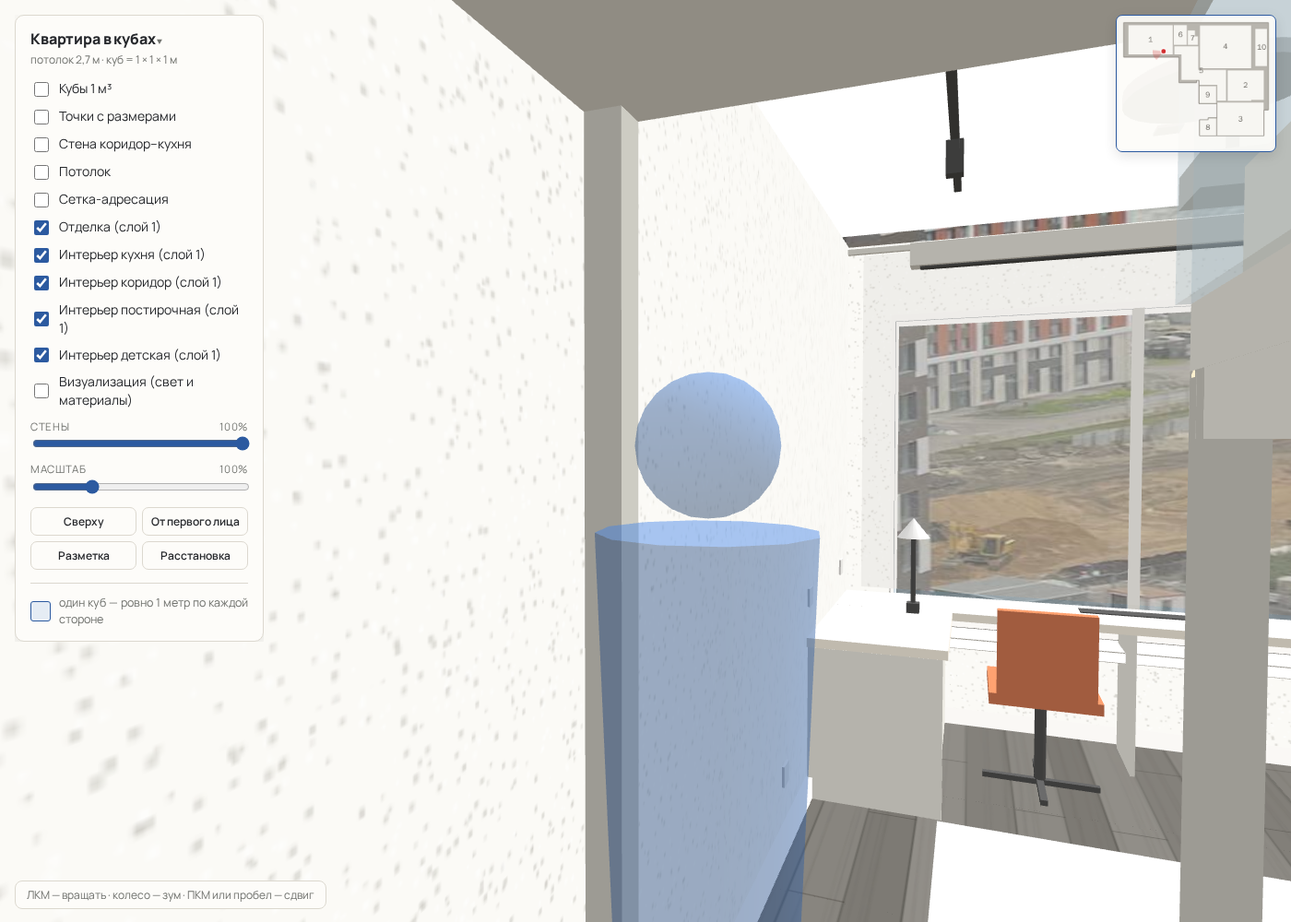
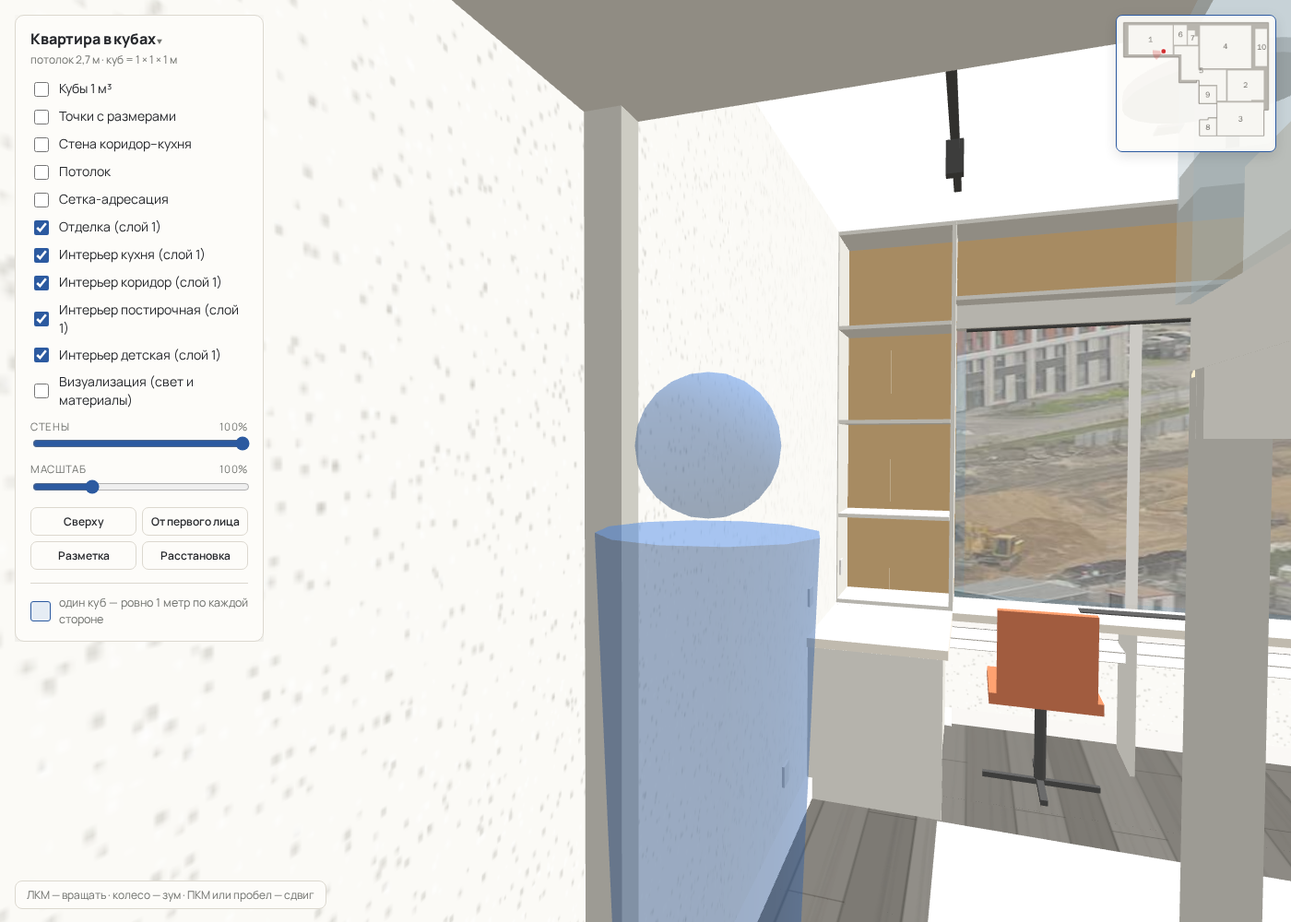
Комната 1: окно 1.80 м между стеллажами, второй узкий стеллаж в юго-западном углу, полка над окном, без настольной лампы

Changed region(s): [[0.645, 0.217, 0.9829, 0.682], [0.9829, 0.558, 1.0, 0.651]]

diff --git a/plan.js b/plan.js
@@ -1,1 +1,1 @@
-const PLAN={"outer":[[0.407,1.616],[0.407,5.146],[6.083,5.146],[6.083,7.754],[7.876,7.754],[7.876,7.536],[8.12,7.536],[8.12,9.899],[9.967,9.899],[9.967,11.352],[9.057,11.352],[9.057,11.556],[8.175,11.556],[8.175,13.185],[14.801,13.185],[14.801,10.537],[15.249,10.537],[15.249,1.616]],"rooms":[{"id":1,"poly":[[0.896,1.874],[0.896,4.864],[5.445,4.864],[5.445,1.874]],"label":[3.169,3.36],"cells":[[0.896,1.874,0.991,0.991,0],[1.887,1.874,1,0.991,1],[2.892,1.874,0.991,0.991,0],[3.884,1.874,1,0.991,1],[4.888,1.874,0.57,0.991,0],[0.896,2.865,0.991,1,1],[1.887,2.865,1,1,0],[2.892,2.865,0.991,1,1],[3.884,2.865,1,1,0],[4.888,2.865,0.57,1,1],[0.896,3.87,0.991,0.994,0],[1.887,3.87,1,0.994,1],[2.892,3.87,0.991,0.994,0],[3.884,3.87,1,0.994,1],[4.888,3.87,0.57,0.994,0]],"area":13.6},{"id":2,"poly":[[11.067,6.518],[11.067,9.614],[13.477,9.614],[13.477,9.519],[14.774,9.519],[14.774,6.518]],"label":[12.909,8.057],"cells":[[11.067,6.518,0.991,1.005,0],[12.058,6.518,1,1.005,1],[13.063,6.518,0.991,1.005,0],[14.054,6.518,0.733,1.005,1],[11.067,7.523,0.991,1,1],[12.058,7.523,1,1,0],[13.063,7.523,0.991,1,1],[14.054,7.523,0.733,1,0],[11.067,8.528,0.991,0.991,0],[12.058,8.528,1,0.991,1],[13.063,8.528,0.991,0.991,0],[14.054,8.528,0.733,0.991,1],[11.067,9.519,0.991,0.095,1],[12.058,9.519,1,0.095,0],[13.058,9.519,0.419,0.095,1]],"area":11.3},{"id":3,"poly":[[10.021,13.144],[14.76,13.144],[14.76,9.777],[10.021,9.777]],"label":[12.39,11.46],"cells":[[10.021,9.777,1.0,1.0,0],[11.021,9.777,1.0,1.0,1],[12.021,9.777,1.0,1.0,0],[13.021,9.777,1.0,1.0,1],[14.021,9.777,0.739,1.0,0],[10.021,10.777,1.0,1.0,1],[11.021,10.777,1.0,1.0,0],[12.021,10.777,1.0,1.0,1],[13.021,10.777,1.0,1.0,0],[14.021,10.777,0.739,1.0,1],[10.021,11.777,1.0,1.0,0],[11.021,11.777,1.0,1.0,1],[12.021,11.777,1.0,1.0,0],[13.021,11.777,1.0,1.0,1],[14.021,11.777,0.739,1.0,0],[10.021,12.777,1.0,0.367,1],[11.021,12.777,1.0,0.367,0],[12.021,12.777,1.0,0.367,1],[13.021,12.777,1.0,0.367,0],[14.021,12.777,0.739,0.367,1]],"area":16.0},{"id":4,"poly":[[8.23,1.915],[8.23,6.287],[13.47,6.287],[13.47,1.915]],"label":[10.841,4.1],"cells":[[8.23,1.915,0.976,0.991,0],[9.207,1.915,1,0.991,1],[10.211,1.915,0.991,0.991,0],[11.203,1.915,1,0.991,1],[12.208,1.915,1,0.991,0],[13.212,1.915,0.272,0.991,1],[8.23,2.906,0.976,1,1],[9.207,2.906,1,1,0],[10.211,2.906,0.991,1,1],[11.203,2.906,1,1,0],[12.208,2.906,1,1,1],[13.212,2.906,0.272,1,0],[8.23,3.911,0.976,0.991,0],[9.207,3.911,1,0.991,1],[10.211,3.911,0.991,0.991,0],[11.203,3.911,1,0.991,1],[12.208,3.911,1,0.991,0],[13.212,3.911,0.272,0.991,1],[8.23,4.902,0.976,1,1],[9.207,4.902,1,1,0],[10.211,4.902,0.991,1,1],[11.203,4.902,1,1,0],[12.208,4.902,1,1,1],[13.212,4.902,0.272,1,0],[8.23,5.907,0.976,0.394,0],[9.207,5.907,1,0.394,1],[10.211,5.907,0.991,0.394,0],[11.203,5.907,1,0.394,1],[12.208,5.907,1,0.394,0],[13.212,5.907,0.272,0.394,1]],"area":22.9},{"id":5,"poly":[[5.608,4.033],[5.608,4.861],[6.336,4.861],[6.336,7.468],[8.161,7.468],[8.161,7.984],[10.008,7.984],[10.008,9.6],[10.904,9.6],[10.904,6.464],[8.066,6.464],[8.066,4.033]],"label":[8.344,6.563],"cells":[[5.608,4.033,0.991,0.991,0],[6.599,4.033,1,0.991,1],[7.604,4.033,0.435,0.991,0],[6.336,5.024,0.264,1,1],[6.599,5.024,1,1,0],[7.604,5.024,0.448,1,1],[6.336,6.029,0.264,0.991,0],[6.599,6.029,1,0.991,1],[7.604,6.029,0.991,0.991,0],[8.596,6.45,1,0.57,1],[9.6,6.464,1,0.557,0],[10.605,6.464,0.299,0.557,1],[6.336,7.02,0.264,0.462,1],[6.599,7.02,1,0.462,0],[7.604,7.02,0.991,0.978,1],[8.596,7.02,1,0.978,0],[9.6,7.02,1,1,1],[10.605,7.02,0.299,1,0],[10.035,8.025,0.57,1,0],[10.605,8.025,0.299,1,1],[10.035,9.03,0.57,0.584,1],[10.605,9.03,0.299,0.584,0]],"area":12.3},{"id":6,"poly":[[5.565,1.874],[5.565,3.894],[6.885,3.894],[6.885,1.874]],"label":[6.238,2.862],"cells":[[5.565,1.874,1.021,0.991,0],[6.586,1.874,0.312,0.991,1],[5.565,2.865,1.021,1.029,1],[6.586,2.865,0.312,1.029,0]],"area":2.7},{"id":7,"poly":[[6.995,2.417],[6.995,3.894],[8.025,3.894],[8.025,3.028],[7.713,3.028],[7.713,2.417]],"label":[7.471,3.211],"cells":[[6.995,2.417,1.03,0.991,0],[6.995,3.408,1.03,0.486,1]],"area":1.3},{"id":8,"poly":[[9.872,11.384],[9.098,11.384],[9.098,11.588],[8.192,11.588],[8.192,13.144],[9.872,13.144]],"label":[9.058,12.332],"cells":[[8.192,11.384,1.014,1.013,0],[9.207,11.384,0.679,1.013,1],[8.192,12.398,1.014,0.76,1],[9.207,12.398,0.679,0.747,0]],"area":2.8},{"id":9,"poly":[[8.172,8.122],[8.172,9.872],[9.872,9.872],[9.872,8.122]],"label":[9.034,9.023],"cells":[[8.172,8.122,1.021,1.03,0],[9.193,8.122,0.693,1.03,1],[8.172,9.152,1.021,0.733,1],[9.193,9.152,0.693,0.733,0]],"area":3.0},{"id":10,"poly":[[13.91,2.268],[13.91,6.043],[15.1,6.043],[15.1,2.268]],"label":[14.542,4.158],"cells":[[13.91,2.254,1.054,0.991,0],[14.964,2.268,0.163,0.978,1],[13.91,3.245,1.054,1,1],[14.964,3.245,0.163,1,0],[13.91,4.25,1.054,0.991,0],[14.964,4.25,0.163,0.991,1],[13.91,5.242,1.054,0.815,1],[14.964,5.242,0.149,0.815,0]],"area":4.5}],"slabs":[{"y0":0.0,"y1":0.55,"polys":[{"s":[[6.083,7.754],[6.725,7.754],[6.725,7.468],[6.336,7.468],[6.336,4.861],[5.1,4.86],[5.1,4.864],[0.896,4.864],[0.896,1.874],[5.445,1.874],[5.445,3.98],[5.94,3.98],[5.94,4.033],[6.1,4.033],[6.1,3.894],[5.565,3.894],[5.565,1.874],[6.885,1.874],[6.885,3.52],[6.9,3.52],[6.9,4.033],[7.1,4.033],[7.1,3.894],[6.995,3.894],[6.995,2.417],[7.713,2.417],[7.713,3.028],[8.025,3.028],[8.025,3.894],[7.9,3.894],[7.9,4.033],[8.066,4.033],[8.066,5.516],[8.23,5.516],[8.23,1.915],[13.47,1.915],[13.47,2.8],[13.91,2.8],[13.91,2.268],[15.1,2.268],[15.1,2.4],[15.249,2.4],[15.249,1.616],[0.407,1.616],[0.407,5.146],[6.083,5.146]],"h":[]},{"s":[[8.12,7.536],[8.12,9.899],[9.967,9.899],[9.967,11.352],[9.057,11.352],[9.057,11.556],[8.175,11.556],[8.175,13.185],[14.801,13.185],[14.801,10.537],[15.249,10.537],[15.249,5.9],[15.1,5.9],[15.1,6.043],[13.91,6.043],[13.91,4.6],[13.47,4.6],[13.47,6.287],[10.96,6.287],[10.96,6.62],[10.904,6.62],[10.904,6.75],[11.067,6.75],[11.067,6.518],[14.774,6.518],[14.774,9.519],[13.477,9.519],[13.477,9.614],[11.067,9.614],[11.067,7.65],[10.904,7.65],[10.904,9.27],[10.95,9.27],[10.95,9.777],[14.76,9.777],[14.76,13.144],[10.021,13.144],[10.021,13.0],[9.872,13.0],[9.872,13.144],[8.192,13.144],[8.192,11.588],[9.098,11.588],[9.098,11.384],[9.872,11.384],[9.872,12.2],[10.021,12.2],[10.021,9.777],[10.05,9.777],[10.05,9.6],[10.008,9.6],[10.008,9.35],[9.872,9.35],[9.872,9.872],[8.172,9.872],[8.172,8.122],[9.872,8.122],[9.872,8.55],[10.008,8.55],[10.008,7.984],[8.161,7.984],[8.161,7.468],[7.975,7.468],[7.975,7.536]],"h":[]}]},{"y0":0.55,"y1":0.9,"polys":[{"s":[[6.083,7.754],[6.725,7.754],[6.725,7.468],[6.336,7.468],[6.336,4.861],[5.1,4.86],[5.1,4.864],[0.896,4.864],[0.896,4.61],[0.407,4.61],[0.407,5.146],[6.083,5.146]],"h":[]},{"s":[[8.12,7.536],[8.12,9.899],[9.967,9.899],[9.967,11.352],[9.057,11.352],[9.057,11.556],[8.175,11.556],[8.175,13.185],[14.801,13.185],[14.801,12.55],[14.76,12.55],[14.76,13.144],[10.021,13.144],[10.021,13.0],[9.872,13.0],[9.872,13.144],[8.192,13.144],[8.192,11.588],[9.098,11.588],[9.098,11.384],[9.872,11.384],[9.872,12.2],[10.021,12.2],[10.021,9.777],[10.05,9.777],[10.05,9.6],[10.008,9.6],[10.008,9.35],[9.872,9.35],[9.872,9.872],[8.172,9.872],[8.172,8.122],[9.872,8.122],[9.872,8.55],[10.008,8.55],[10.008,7.984],[8.161,7.984],[8.161,7.468],[7.975,7.468],[7.975,7.536]],"h":[]},{"s":[[15.249,8.8],[14.774,8.8],[14.774,9.519],[13.477,9.519],[13.477,9.614],[11.067,9.614],[11.067,7.65],[10.904,7.65],[10.904,9.27],[10.95,9.27],[10.95,9.777],[14.76,9.777],[14.76,10.35],[15.249,10.35]],"h":[]},{"s":[[15.249,5.9],[15.1,5.9],[15.1,6.043],[13.91,6.043],[13.91,4.6],[13.47,4.6],[13.47,6.287],[10.96,6.287],[10.96,6.62],[10.904,6.62],[10.904,6.75],[11.067,6.75],[11.067,6.518],[14.774,6.518],[14.774,7.3],[15.249,7.3]],"h":[]},{"s":[[15.249,1.616],[0.407,1.616],[0.407,2.11],[0.896,2.11],[0.896,1.874],[5.445,1.874],[5.445,3.98],[5.94,3.98],[5.94,4.033],[6.1,4.033],[6.1,3.894],[5.565,3.894],[5.565,1.874],[6.885,1.874],[6.885,3.52],[6.9,3.52],[6.9,4.033],[7.1,4.033],[7.1,3.894],[6.995,3.894],[6.995,2.417],[7.713,2.417],[7.713,3.028],[8.025,3.028],[8.025,3.894],[7.9,3.894],[7.9,4.033],[8.066,4.033],[8.066,5.516],[8.23,5.516],[8.23,1.915],[13.47,1.915],[13.47,2.8],[13.91,2.8],[13.91,2.268],[15.1,2.268],[15.1,2.4],[15.249,2.4]],"h":[]}]},{"y0":0.9,"y1":2.1,"polys":[{"s":[[6.083,7.754],[6.725,7.754],[6.725,7.468],[6.336,7.468],[6.336,4.861],[5.1,4.86],[5.1,4.864],[0.896,4.864],[0.896,4.61],[0.407,4.61],[0.407,5.146],[6.083,5.146]],"h":[]},{"s":[[8.12,7.536],[8.12,9.899],[9.967,9.899],[9.967,11.352],[9.057,11.352],[9.057,11.556],[8.175,11.556],[8.175,13.185],[14.801,13.185],[14.801,12.55],[14.76,12.55],[14.76,13.144],[10.021,13.144],[10.021,13.0],[9.872,13.0],[9.872,13.144],[8.192,13.144],[8.192,11.588],[9.098,11.588],[9.098,11.384],[9.872,11.384],[9.872,12.2],[10.021,12.2],[10.021,9.777],[10.05,9.777],[10.05,9.6],[10.008,9.6],[10.008,9.35],[9.872,9.35],[9.872,9.872],[8.172,9.872],[8.172,8.122],[9.872,8.122],[9.872,8.55],[10.008,8.55],[10.008,7.984],[8.161,7.984],[8.161,7.468],[7.975,7.468],[7.975,7.536]],"h":[]},{"s":[[15.249,8.8],[14.774,8.8],[14.774,9.519],[13.477,9.519],[13.477,9.614],[11.067,9.614],[11.067,7.65],[10.904,7.65],[10.904,9.27],[10.95,9.27],[10.95,9.777],[14.76,9.777],[14.76,10.35],[15.249,10.35]],"h":[]},{"s":[[15.249,5.9],[15.1,5.9],[15.1,6.043],[13.91,6.043],[13.91,4.6],[13.47,4.6],[13.47,6.287],[10.96,6.287],[10.96,6.62],[10.904,6.62],[10.904,6.75],[11.067,6.75],[11.067,6.518],[14.774,6.518],[14.774,7.3],[15.249,7.3]],"h":[]},{"s":[[15.249,1.616],[0.407,1.616],[0.407,2.11],[0.896,2.11],[0.896,1.874],[5.445,1.874],[5.445,3.98],[5.94,3.98],[5.94,4.033],[6.1,4.033],[6.1,3.894],[5.565,3.894],[5.565,1.874],[6.885,1.874],[6.885,3.52],[6.9,3.52],[6.9,4.033],[7.1,4.033],[7.1,3.894],[6.995,3.894],[6.995,2.417],[7.713,2.417],[7.713,3.028],[8.025,3.028],[8.025,3.894],[7.9,3.894],[7.9,4.033],[8.066,4.033],[8.066,5.516],[8.23,5.516],[8.23,1.915],[13.47,1.915],[13.47,2.8],[13.91,2.8],[13.91,2.268],[15.1,2.268],[15.1,2.4],[15.249,2.4]],"h":[]}]},{"y0":2.1,"y1":2.3,"polys":[{"s":[[6.083,7.754],[7.876,7.754],[7.876,7.536],[8.12,7.536],[8.12,9.899],[9.967,9.899],[9.967,11.352],[9.057,11.352],[9.057,11.556],[8.175,11.556],[8.175,13.185],[14.801,13.185],[14.801,12.55],[14.76,12.55],[14.76,13.144],[10.021,13.144],[10.021,9.777],[14.76,9.777],[14.76,10.35],[15.249,10.35],[15.249,8.8],[14.774,8.8],[14.774,9.519],[13.477,9.519],[13.477,9.614],[11.067,9.614],[11.067,6.518],[14.774,6.518],[14.774,7.3],[15.249,7.3],[15.249,5.9],[15.1,5.9],[15.1,6.043],[13.91,6.043],[13.91,2.268],[15.1,2.268],[15.1,2.4],[15.249,2.4],[15.249,1.616],[0.407,1.616],[0.407,2.11],[0.896,2.11],[0.896,1.874],[5.445,1.874],[5.445,4.864],[0.896,4.864],[0.896,4.61],[0.407,4.61],[0.407,5.146],[6.083,5.146]],"h":[[[5.565,1.874],[6.885,1.874],[6.885,3.894],[5.565,3.894]],[[6.995,2.417],[7.713,2.417],[7.713,3.028],[8.025,3.028],[8.025,3.894],[6.995,3.894]],[[10.96,6.287],[10.96,6.62],[10.904,6.62],[10.904,9.6],[10.008,9.6],[10.008,7.984],[8.161,7.984],[8.161,7.468],[6.336,7.468],[6.336,4.861],[5.608,4.861],[5.608,4.033],[8.066,4.033],[8.066,5.516],[8.23,5.516],[8.23,1.915],[13.47,1.915],[13.47,6.287]],[[8.172,8.122],[9.872,8.122],[9.872,9.872],[8.172,9.872]],[[9.872,11.384],[9.872,13.144],[8.192,13.144],[8.192,11.588],[9.098,11.588],[9.098,11.384]]]}]},{"y0":2.3,"y1":2.7,"polys":[{"s":[[6.083,5.146],[6.083,7.754],[7.876,7.754],[7.876,7.536],[8.12,7.536],[8.12,9.899],[9.967,9.899],[9.967,11.352],[9.057,11.352],[9.057,11.556],[8.175,11.556],[8.175,13.185],[14.801,13.185],[14.801,10.537],[15.249,10.537],[15.249,1.616],[0.407,1.616],[0.407,5.146]],"h":[[[5.565,3.894],[5.565,1.874],[6.885,1.874],[6.885,3.894]],[[6.995,3.894],[6.995,2.417],[7.713,2.417],[7.713,3.028],[8.025,3.028],[8.025,3.894]],[[0.896,4.864],[0.896,1.874],[5.445,1.874],[5.445,4.864]],[[13.47,6.287],[10.96,6.287],[10.96,6.62],[10.904,6.62],[10.904,9.6],[10.008,9.6],[10.008,7.984],[8.161,7.984],[8.161,7.468],[6.336,7.468],[6.336,4.861],[5.608,4.861],[5.608,4.033],[8.066,4.033],[8.066,5.516],[8.23,5.516],[8.23,1.915],[13.47,1.915]],[[15.1,6.043],[13.91,6.043],[13.91,2.268],[15.1,2.268]],[[11.067,9.614],[11.067,6.518],[14.774,6.518],[14.774,9.519],[13.477,9.519],[13.477,9.614]],[[8.172,9.872],[8.172,8.122],[9.872,8.122],[9.872,9.872]],[[14.76,9.777],[14.76,13.144],[10.021,13.144],[10.021,9.777]],[[9.872,11.384],[9.872,13.144],[8.192,13.144],[8.192,11.588],[9.098,11.588],[9.098,11.384]]]}]}],"slabsR":[{"y0":0.0,"y1":0.55,"polys":[{"s":[[8.23,5.516],[8.066,5.516],[8.066,6.464],[8.85,6.464],[8.85,6.287],[8.23,6.287]],"h":[]},{"s":[[10.904,6.464],[10.904,6.62],[10.96,6.62],[10.96,6.287],[9.75,6.287],[9.75,6.464]],"h":[]}]},{"y0":0.55,"y1":0.9,"polys":[{"s":[[8.23,5.516],[8.066,5.516],[8.066,6.464],[8.85,6.464],[8.85,6.287],[8.23,6.287]],"h":[]},{"s":[[10.904,6.464],[10.904,6.62],[10.96,6.62],[10.96,6.287],[9.75,6.287],[9.75,6.464]],"h":[]}]},{"y0":0.9,"y1":2.1,"polys":[{"s":[[8.23,5.516],[8.066,5.516],[8.066,6.464],[8.85,6.464],[8.85,6.287],[8.23,6.287]],"h":[]},{"s":[[10.904,6.464],[10.904,6.62],[10.96,6.62],[10.96,6.287],[9.75,6.287],[9.75,6.464]],"h":[]}]},{"y0":2.1,"y1":2.3,"polys":[{"s":[[8.23,5.516],[8.066,5.516],[8.066,6.464],[10.904,6.464],[10.904,6.62],[10.96,6.62],[10.96,6.287],[8.23,6.287]],"h":[]}]},{"y0":2.3,"y1":2.7,"polys":[{"s":[[8.23,6.287],[8.23,5.516],[8.066,5.516],[8.066,6.464],[10.904,6.464],[10.904,6.62],[10.96,6.62],[10.96,6.287]],"h":[]}]}],"windows":[{"x":0.65,"z0":2.11,"z1":4.61,"y0":0.55,"y1":2.3,"nx":-1,"img":0},{"x":15.0,"z0":7.3,"z1":8.8,"y0":0.55,"y1":2.3,"nx":1,"img":1},{"x":15.0,"z0":10.35,"z1":12.55,"y0":0.55,"y1":2.3,"nx":1,"img":2},{"x":15.17,"z0":2.4,"z1":5.9,"y0":0.0,"y1":2.3,"nx":1,"img":3}],"meta":{"version":2,"units":"m","origin":[0.407,1.616],"note":"origin — угол (minX,minZ) контура на момент v1; адреса клеток A1/D7+26 считаются от него, а не от текущего outer"},"doors":[[5.52,4.42,"v",0.88],[6.5,3.94,"h",0.8],[7.5,3.94,"h",0.8],[10.99,7.2,"v",0.9],[10.5,9.69,"h",0.9],[9.95,8.95,"v",0.8],[9.95,12.6,"v",0.8],[7.35,7.61,"h",1.25],[9.3,6.37,"h",0.9,"K"]],"openings":[{"tag":"balcony","x0":13.47,"x1":13.91,"z0":2.8,"z1":4.6,"h":2.1}],"baths":[{"x0":8.202,"z0":8.161,"x1":9.872,"z1":9.872,"dz0":8.55,"dz1":9.35},{"x0":8.215,"z0":11.406,"x1":9.872,"z1":13.144,"dz0":12.2,"dz1":13.0}]};
+const PLAN={"outer":[[0.407,1.616],[0.407,5.146],[6.083,5.146],[6.083,7.754],[7.876,7.754],[7.876,7.536],[8.12,7.536],[8.12,9.899],[9.967,9.899],[9.967,11.352],[9.057,11.352],[9.057,11.556],[8.175,11.556],[8.175,13.185],[14.801,13.185],[14.801,10.537],[15.249,10.537],[15.249,1.616]],"rooms":[{"id":1,"poly":[[0.896,1.874],[0.896,4.864],[5.445,4.864],[5.445,1.874]],"label":[3.169,3.36],"cells":[[0.896,1.874,0.991,0.991,0],[1.887,1.874,1,0.991,1],[2.892,1.874,0.991,0.991,0],[3.884,1.874,1,0.991,1],[4.888,1.874,0.57,0.991,0],[0.896,2.865,0.991,1,1],[1.887,2.865,1,1,0],[2.892,2.865,0.991,1,1],[3.884,2.865,1,1,0],[4.888,2.865,0.57,1,1],[0.896,3.87,0.991,0.994,0],[1.887,3.87,1,0.994,1],[2.892,3.87,0.991,0.994,0],[3.884,3.87,1,0.994,1],[4.888,3.87,0.57,0.994,0]],"area":13.6},{"id":2,"poly":[[11.067,6.518],[11.067,9.614],[13.477,9.614],[13.477,9.519],[14.774,9.519],[14.774,6.518]],"label":[12.909,8.057],"cells":[[11.067,6.518,0.991,1.005,0],[12.058,6.518,1,1.005,1],[13.063,6.518,0.991,1.005,0],[14.054,6.518,0.733,1.005,1],[11.067,7.523,0.991,1,1],[12.058,7.523,1,1,0],[13.063,7.523,0.991,1,1],[14.054,7.523,0.733,1,0],[11.067,8.528,0.991,0.991,0],[12.058,8.528,1,0.991,1],[13.063,8.528,0.991,0.991,0],[14.054,8.528,0.733,0.991,1],[11.067,9.519,0.991,0.095,1],[12.058,9.519,1,0.095,0],[13.058,9.519,0.419,0.095,1]],"area":11.3},{"id":3,"poly":[[10.021,13.144],[14.76,13.144],[14.76,9.777],[10.021,9.777]],"label":[12.39,11.46],"cells":[[10.021,9.777,1.0,1.0,0],[11.021,9.777,1.0,1.0,1],[12.021,9.777,1.0,1.0,0],[13.021,9.777,1.0,1.0,1],[14.021,9.777,0.739,1.0,0],[10.021,10.777,1.0,1.0,1],[11.021,10.777,1.0,1.0,0],[12.021,10.777,1.0,1.0,1],[13.021,10.777,1.0,1.0,0],[14.021,10.777,0.739,1.0,1],[10.021,11.777,1.0,1.0,0],[11.021,11.777,1.0,1.0,1],[12.021,11.777,1.0,1.0,0],[13.021,11.777,1.0,1.0,1],[14.021,11.777,0.739,1.0,0],[10.021,12.777,1.0,0.367,1],[11.021,12.777,1.0,0.367,0],[12.021,12.777,1.0,0.367,1],[13.021,12.777,1.0,0.367,0],[14.021,12.777,0.739,0.367,1]],"area":16.0},{"id":4,"poly":[[8.23,1.915],[8.23,6.287],[13.47,6.287],[13.47,1.915]],"label":[10.841,4.1],"cells":[[8.23,1.915,0.976,0.991,0],[9.207,1.915,1,0.991,1],[10.211,1.915,0.991,0.991,0],[11.203,1.915,1,0.991,1],[12.208,1.915,1,0.991,0],[13.212,1.915,0.272,0.991,1],[8.23,2.906,0.976,1,1],[9.207,2.906,1,1,0],[10.211,2.906,0.991,1,1],[11.203,2.906,1,1,0],[12.208,2.906,1,1,1],[13.212,2.906,0.272,1,0],[8.23,3.911,0.976,0.991,0],[9.207,3.911,1,0.991,1],[10.211,3.911,0.991,0.991,0],[11.203,3.911,1,0.991,1],[12.208,3.911,1,0.991,0],[13.212,3.911,0.272,0.991,1],[8.23,4.902,0.976,1,1],[9.207,4.902,1,1,0],[10.211,4.902,0.991,1,1],[11.203,4.902,1,1,0],[12.208,4.902,1,1,1],[13.212,4.902,0.272,1,0],[8.23,5.907,0.976,0.394,0],[9.207,5.907,1,0.394,1],[10.211,5.907,0.991,0.394,0],[11.203,5.907,1,0.394,1],[12.208,5.907,1,0.394,0],[13.212,5.907,0.272,0.394,1]],"area":22.9},{"id":5,"poly":[[5.608,4.033],[5.608,4.861],[6.336,4.861],[6.336,7.468],[8.161,7.468],[8.161,7.984],[10.008,7.984],[10.008,9.6],[10.904,9.6],[10.904,6.464],[8.066,6.464],[8.066,4.033]],"label":[8.344,6.563],"cells":[[5.608,4.033,0.991,0.991,0],[6.599,4.033,1,0.991,1],[7.604,4.033,0.435,0.991,0],[6.336,5.024,0.264,1,1],[6.599,5.024,1,1,0],[7.604,5.024,0.448,1,1],[6.336,6.029,0.264,0.991,0],[6.599,6.029,1,0.991,1],[7.604,6.029,0.991,0.991,0],[8.596,6.45,1,0.57,1],[9.6,6.464,1,0.557,0],[10.605,6.464,0.299,0.557,1],[6.336,7.02,0.264,0.462,1],[6.599,7.02,1,0.462,0],[7.604,7.02,0.991,0.978,1],[8.596,7.02,1,0.978,0],[9.6,7.02,1,1,1],[10.605,7.02,0.299,1,0],[10.035,8.025,0.57,1,0],[10.605,8.025,0.299,1,1],[10.035,9.03,0.57,0.584,1],[10.605,9.03,0.299,0.584,0]],"area":12.3},{"id":6,"poly":[[5.565,1.874],[5.565,3.894],[6.885,3.894],[6.885,1.874]],"label":[6.238,2.862],"cells":[[5.565,1.874,1.021,0.991,0],[6.586,1.874,0.312,0.991,1],[5.565,2.865,1.021,1.029,1],[6.586,2.865,0.312,1.029,0]],"area":2.7},{"id":7,"poly":[[6.995,2.417],[6.995,3.894],[8.025,3.894],[8.025,3.028],[7.713,3.028],[7.713,2.417]],"label":[7.471,3.211],"cells":[[6.995,2.417,1.03,0.991,0],[6.995,3.408,1.03,0.486,1]],"area":1.3},{"id":8,"poly":[[9.872,11.384],[9.098,11.384],[9.098,11.588],[8.192,11.588],[8.192,13.144],[9.872,13.144]],"label":[9.058,12.332],"cells":[[8.192,11.384,1.014,1.013,0],[9.207,11.384,0.679,1.013,1],[8.192,12.398,1.014,0.76,1],[9.207,12.398,0.679,0.747,0]],"area":2.8},{"id":9,"poly":[[8.172,8.122],[8.172,9.872],[9.872,9.872],[9.872,8.122]],"label":[9.034,9.023],"cells":[[8.172,8.122,1.021,1.03,0],[9.193,8.122,0.693,1.03,1],[8.172,9.152,1.021,0.733,1],[9.193,9.152,0.693,0.733,0]],"area":3.0},{"id":10,"poly":[[13.91,2.268],[13.91,6.043],[15.1,6.043],[15.1,2.268]],"label":[14.542,4.158],"cells":[[13.91,2.254,1.054,0.991,0],[14.964,2.268,0.163,0.978,1],[13.91,3.245,1.054,1,1],[14.964,3.245,0.163,1,0],[13.91,4.25,1.054,0.991,0],[14.964,4.25,0.163,0.991,1],[13.91,5.242,1.054,0.815,1],[14.964,5.242,0.149,0.815,0]],"area":4.5}],"slabs":[{"y0":0.0,"y1":0.55,"polys":[{"s":[[6.083,7.754],[6.725,7.754],[6.725,7.468],[6.336,7.468],[6.336,4.861],[5.1,4.86],[5.1,4.864],[0.896,4.864],[0.896,1.874],[5.445,1.874],[5.445,3.98],[5.94,3.98],[5.94,4.033],[6.1,4.033],[6.1,3.894],[5.565,3.894],[5.565,1.874],[6.885,1.874],[6.885,3.52],[6.9,3.52],[6.9,4.033],[7.1,4.033],[7.1,3.894],[6.995,3.894],[6.995,2.417],[7.713,2.417],[7.713,3.028],[8.025,3.028],[8.025,3.894],[7.9,3.894],[7.9,4.033],[8.066,4.033],[8.066,5.516],[8.23,5.516],[8.23,1.915],[13.47,1.915],[13.47,2.8],[13.91,2.8],[13.91,2.268],[15.1,2.268],[15.1,2.4],[15.249,2.4],[15.249,1.616],[0.407,1.616],[0.407,5.146],[6.083,5.146]],"h":[]},{"s":[[8.12,7.536],[8.12,9.899],[9.967,9.899],[9.967,11.352],[9.057,11.352],[9.057,11.556],[8.175,11.556],[8.175,13.185],[14.801,13.185],[14.801,10.537],[15.249,10.537],[15.249,5.9],[15.1,5.9],[15.1,6.043],[13.91,6.043],[13.91,4.6],[13.47,4.6],[13.47,6.287],[10.96,6.287],[10.96,6.62],[10.904,6.62],[10.904,6.75],[11.067,6.75],[11.067,6.518],[14.774,6.518],[14.774,9.519],[13.477,9.519],[13.477,9.614],[11.067,9.614],[11.067,7.65],[10.904,7.65],[10.904,9.27],[10.95,9.27],[10.95,9.777],[14.76,9.777],[14.76,13.144],[10.021,13.144],[10.021,13.0],[9.872,13.0],[9.872,13.144],[8.192,13.144],[8.192,11.588],[9.098,11.588],[9.098,11.384],[9.872,11.384],[9.872,12.2],[10.021,12.2],[10.021,9.777],[10.05,9.777],[10.05,9.6],[10.008,9.6],[10.008,9.35],[9.872,9.35],[9.872,9.872],[8.172,9.872],[8.172,8.122],[9.872,8.122],[9.872,8.55],[10.008,8.55],[10.008,7.984],[8.161,7.984],[8.161,7.468],[7.975,7.468],[7.975,7.536]],"h":[]}]},{"y0":0.55,"y1":0.9,"polys":[{"s":[[6.083,7.754],[6.725,7.754],[6.725,7.468],[6.336,7.468],[6.336,4.861],[5.1,4.86],[5.1,4.864],[0.896,4.864],[0.896,4.61],[0.407,4.61],[0.407,5.146],[6.083,5.146]],"h":[]},{"s":[[8.12,7.536],[8.12,9.899],[9.967,9.899],[9.967,11.352],[9.057,11.352],[9.057,11.556],[8.175,11.556],[8.175,13.185],[14.801,13.185],[14.801,12.55],[14.76,12.55],[14.76,13.144],[10.021,13.144],[10.021,13.0],[9.872,13.0],[9.872,13.144],[8.192,13.144],[8.192,11.588],[9.098,11.588],[9.098,11.384],[9.872,11.384],[9.872,12.2],[10.021,12.2],[10.021,9.777],[10.05,9.777],[10.05,9.6],[10.008,9.6],[10.008,9.35],[9.872,9.35],[9.872,9.872],[8.172,9.872],[8.172,8.122],[9.872,8.122],[9.872,8.55],[10.008,8.55],[10.008,7.984],[8.161,7.984],[8.161,7.468],[7.975,7.468],[7.975,7.536]],"h":[]},{"s":[[15.249,8.8],[14.774,8.8],[14.774,9.519],[13.477,9.519],[13.477,9.614],[11.067,9.614],[11.067,7.65],[10.904,7.65],[10.904,9.27],[10.95,9.27],[10.95,9.777],[14.76,9.777],[14.76,10.35],[15.249,10.35]],"h":[]},{"s":[[15.249,5.9],[15.1,5.9],[15.1,6.043],[13.91,6.043],[13.91,4.6],[13.47,4.6],[13.47,6.287],[10.96,6.287],[10.96,6.62],[10.904,6.62],[10.904,6.75],[11.067,6.75],[11.067,6.518],[14.774,6.518],[14.774,7.3],[15.249,7.3]],"h":[]},{"s":[[15.249,1.616],[0.407,1.616],[0.407,2.11],[0.896,2.11],[0.896,1.874],[5.445,1.874],[5.445,3.98],[5.94,3.98],[5.94,4.033],[6.1,4.033],[6.1,3.894],[5.565,3.894],[5.565,1.874],[6.885,1.874],[6.885,3.52],[6.9,3.52],[6.9,4.033],[7.1,4.033],[7.1,3.894],[6.995,3.894],[6.995,2.417],[7.713,2.417],[7.713,3.028],[8.025,3.028],[8.025,3.894],[7.9,3.894],[7.9,4.033],[8.066,4.033],[8.066,5.516],[8.23,5.516],[8.23,1.915],[13.47,1.915],[13.47,2.8],[13.91,2.8],[13.91,2.268],[15.1,2.268],[15.1,2.4],[15.249,2.4]],"h":[]}]},{"y0":0.9,"y1":2.1,"polys":[{"s":[[6.083,7.754],[6.725,7.754],[6.725,7.468],[6.336,7.468],[6.336,4.861],[5.1,4.86],[5.1,4.864],[0.896,4.864],[0.896,4.61],[0.407,4.61],[0.407,5.146],[6.083,5.146]],"h":[]},{"s":[[8.12,7.536],[8.12,9.899],[9.967,9.899],[9.967,11.352],[9.057,11.352],[9.057,11.556],[8.175,11.556],[8.175,13.185],[14.801,13.185],[14.801,12.55],[14.76,12.55],[14.76,13.144],[10.021,13.144],[10.021,13.0],[9.872,13.0],[9.872,13.144],[8.192,13.144],[8.192,11.588],[9.098,11.588],[9.098,11.384],[9.872,11.384],[9.872,12.2],[10.021,12.2],[10.021,9.777],[10.05,9.777],[10.05,9.6],[10.008,9.6],[10.008,9.35],[9.872,9.35],[9.872,9.872],[8.172,9.872],[8.172,8.122],[9.872,8.122],[9.872,8.55],[10.008,8.55],[10.008,7.984],[8.161,7.984],[8.161,7.468],[7.975,7.468],[7.975,7.536]],"h":[]},{"s":[[15.249,8.8],[14.774,8.8],[14.774,9.519],[13.477,9.519],[13.477,9.614],[11.067,9.614],[11.067,7.65],[10.904,7.65],[10.904,9.27],[10.95,9.27],[10.95,9.777],[14.76,9.777],[14.76,10.35],[15.249,10.35]],"h":[]},{"s":[[15.249,5.9],[15.1,5.9],[15.1,6.043],[13.91,6.043],[13.91,4.6],[13.47,4.6],[13.47,6.287],[10.96,6.287],[10.96,6.62],[10.904,6.62],[10.904,6.75],[11.067,6.75],[11.067,6.518],[14.774,6.518],[14.774,7.3],[15.249,7.3]],"h":[]},{"s":[[15.249,1.616],[0.407,1.616],[0.407,2.11],[0.896,2.11],[0.896,1.874],[5.445,1.874],[5.445,3.98],[5.94,3.98],[5.94,4.033],[6.1,4.033],[6.1,3.894],[5.565,3.894],[5.565,1.874],[6.885,1.874],[6.885,3.52],[6.9,3.52],[6.9,4.033],[7.1,4.033],[7.1,3.894],[6.995,3.894],[6.995,2.417],[7.713,2.417],[7.713,3.028],[8.025,3.028],[8.025,3.894],[7.9,3.894],[7.9,4.033],[8.066,4.033],[8.066,5.516],[8.23,5.516],[8.23,1.915],[13.47,1.915],[13.47,2.8],[13.91,2.8],[13.91,2.268],[15.1,2.268],[15.1,2.4],[15.249,2.4]],"h":[]}]},{"y0":2.1,"y1":2.3,"polys":[{"s":[[6.083,7.754],[7.876,7.754],[7.876,7.536],[8.12,7.536],[8.12,9.899],[9.967,9.899],[9.967,11.352],[9.057,11.352],[9.057,11.556],[8.175,11.556],[8.175,13.185],[14.801,13.185],[14.801,12.55],[14.76,12.55],[14.76,13.144],[10.021,13.144],[10.021,9.777],[14.76,9.777],[14.76,10.35],[15.249,10.35],[15.249,8.8],[14.774,8.8],[14.774,9.519],[13.477,9.519],[13.477,9.614],[11.067,9.614],[11.067,6.518],[14.774,6.518],[14.774,7.3],[15.249,7.3],[15.249,5.9],[15.1,5.9],[15.1,6.043],[13.91,6.043],[13.91,2.268],[15.1,2.268],[15.1,2.4],[15.249,2.4],[15.249,1.616],[0.407,1.616],[0.407,2.11],[0.896,2.11],[0.896,1.874],[5.445,1.874],[5.445,4.864],[0.896,4.864],[0.896,4.61],[0.407,4.61],[0.407,5.146],[6.083,5.146]],"h":[[[5.565,1.874],[6.885,1.874],[6.885,3.894],[5.565,3.894]],[[6.995,2.417],[7.713,2.417],[7.713,3.028],[8.025,3.028],[8.025,3.894],[6.995,3.894]],[[10.96,6.287],[10.96,6.62],[10.904,6.62],[10.904,9.6],[10.008,9.6],[10.008,7.984],[8.161,7.984],[8.161,7.468],[6.336,7.468],[6.336,4.861],[5.608,4.861],[5.608,4.033],[8.066,4.033],[8.066,5.516],[8.23,5.516],[8.23,1.915],[13.47,1.915],[13.47,6.287]],[[8.172,8.122],[9.872,8.122],[9.872,9.872],[8.172,9.872]],[[9.872,11.384],[9.872,13.144],[8.192,13.144],[8.192,11.588],[9.098,11.588],[9.098,11.384]]]}]},{"y0":2.3,"y1":2.7,"polys":[{"s":[[6.083,5.146],[6.083,7.754],[7.876,7.754],[7.876,7.536],[8.12,7.536],[8.12,9.899],[9.967,9.899],[9.967,11.352],[9.057,11.352],[9.057,11.556],[8.175,11.556],[8.175,13.185],[14.801,13.185],[14.801,10.537],[15.249,10.537],[15.249,1.616],[0.407,1.616],[0.407,5.146]],"h":[[[5.565,3.894],[5.565,1.874],[6.885,1.874],[6.885,3.894]],[[6.995,3.894],[6.995,2.417],[7.713,2.417],[7.713,3.028],[8.025,3.028],[8.025,3.894]],[[0.896,4.864],[0.896,1.874],[5.445,1.874],[5.445,4.864]],[[13.47,6.287],[10.96,6.287],[10.96,6.62],[10.904,6.62],[10.904,9.6],[10.008,9.6],[10.008,7.984],[8.161,7.984],[8.161,7.468],[6.336,7.468],[6.336,4.861],[5.608,4.861],[5.608,4.033],[8.066,4.033],[8.066,5.516],[8.23,5.516],[8.23,1.915],[13.47,1.915]],[[15.1,6.043],[13.91,6.043],[13.91,2.268],[15.1,2.268]],[[11.067,9.614],[11.067,6.518],[14.774,6.518],[14.774,9.519],[13.477,9.519],[13.477,9.614]],[[8.172,9.872],[8.172,8.122],[9.872,8.122],[9.872,9.872]],[[14.76,9.777],[14.76,13.144],[10.021,13.144],[10.021,9.777]],[[9.872,11.384],[9.872,13.144],[8.192,13.144],[8.192,11.588],[9.098,11.588],[9.098,11.384]]]}]}],"slabsR":[{"y0":0.0,"y1":0.55,"polys":[{"s":[[8.23,5.516],[8.066,5.516],[8.066,6.464],[8.85,6.464],[8.85,6.287],[8.23,6.287]],"h":[]},{"s":[[10.904,6.464],[10.904,6.62],[10.96,6.62],[10.96,6.287],[9.75,6.287],[9.75,6.464]],"h":[]}]},{"y0":0.55,"y1":0.9,"polys":[{"s":[[8.23,5.516],[8.066,5.516],[8.066,6.464],[8.85,6.464],[8.85,6.287],[8.23,6.287]],"h":[]},{"s":[[10.904,6.464],[10.904,6.62],[10.96,6.62],[10.96,6.287],[9.75,6.287],[9.75,6.464]],"h":[]}]},{"y0":0.9,"y1":2.1,"polys":[{"s":[[8.23,5.516],[8.066,5.516],[8.066,6.464],[8.85,6.464],[8.85,6.287],[8.23,6.287]],"h":[]},{"s":[[10.904,6.464],[10.904,6.62],[10.96,6.62],[10.96,6.287],[9.75,6.287],[9.75,6.464]],"h":[]}]},{"y0":2.1,"y1":2.3,"polys":[{"s":[[8.23,5.516],[8.066,5.516],[8.066,6.464],[10.904,6.464],[10.904,6.62],[10.96,6.62],[10.96,6.287],[8.23,6.287]],"h":[]}]},{"y0":2.3,"y1":2.7,"polys":[{"s":[[8.23,6.287],[8.23,5.516],[8.066,5.516],[8.066,6.464],[10.904,6.464],[10.904,6.62],[10.96,6.62],[10.96,6.287]],"h":[]}]}],"windows":[{"x":0.65,"z0":2.47,"z1":4.27,"y0":0.55,"y1":2.3,"nx":-1,"img":0},{"x":15.0,"z0":7.3,"z1":8.8,"y0":0.55,"y1":2.3,"nx":1,"img":1},{"x":15.0,"z0":10.35,"z1":12.55,"y0":0.55,"y1":2.3,"nx":1,"img":2},{"x":15.17,"z0":2.4,"z1":5.9,"y0":0.0,"y1":2.3,"nx":1,"img":3}],"meta":{"version":2,"units":"m","origin":[0.407,1.616],"note":"origin — угол (minX,minZ) контура на момент v1; адреса клеток A1/D7+26 считаются от него, а не от текущего outer"},"doors":[[5.52,4.42,"v",0.88],[6.5,3.94,"h",0.8],[7.5,3.94,"h",0.8],[10.99,7.2,"v",0.9],[10.5,9.69,"h",0.9],[9.95,8.95,"v",0.8],[9.95,12.6,"v",0.8],[7.35,7.61,"h",1.25],[9.3,6.37,"h",0.9,"K"]],"openings":[{"tag":"balcony","x0":13.47,"x1":13.91,"z0":2.8,"z1":4.6,"h":2.1}],"baths":[{"x0":8.202,"z0":8.161,"x1":9.872,"z1":9.872,"dz0":8.55,"dz1":9.35},{"x0":8.215,"z0":11.406,"x1":9.872,"z1":13.144,"dz0":12.2,"dz1":13.0}]};

diff --git a/items.js b/items.js
@@ -138,6 +138,15 @@ const PHYS={}; // id → boxes
        b(t+0.003,W-t-0.003,t+0.003,0.90-t-0.003,D,D+0.018,mat.oak); b(W/2-0.005,W/2+0.005,0.78,0.86,D+0.018,D+0.03,mat.knob);   // lower door
        b(t+0.003,W-t-0.003,2.0+0.003,2.5-t-0.003,D,D+0.018,mat.oak); b(W/2-0.005,W/2+0.005,2.05,2.13,D+0.018,D+0.03,mat.knob); // attic door
      }},
+    {id:'kidshelf2',type:'стеллаж узкий с открытыми полками в юго-западном углу, от стола до потолка',room:1,layer:'kid',pos:[0.896,4.864],rot:270,size:[0.60,2.70,0.40],fixed:'wall',
+     build(b){
+       const W=0.60, D=0.40, t=0.02, Y0=0.72;
+       b(0,W,Y0,Y0+t,0,D,mat.kbody); b(0,W,2.7-t,2.7,0,D,mat.kbody); b(0,W,Y0+t,2.7-t,0,t,mat.oak);   // bottom on the desk, top, oak back
+       b(0,t,Y0+t,2.7-t,t,D,mat.kbody); b(W-t,W,Y0+t,2.7-t,t,D,mat.kbody);                        // sides
+       [1.20,1.70,2.20].forEach(y=>b(t,W-t,y-t,y,t,D,mat.kbody));                                  // 4 open cells
+     }},
+    {id:'kidshelf3',type:'полка над окном между стеллажами, одна открытая ячейка',room:1,layer:'kid',pos:[0.896,2.474],rot:0,size:[0.40,2.70,1.79],fixed:'wall',
+     build(b){ b(0,0.40,2.30,2.32,0,1.79,mat.kbody); b(0,0.40,2.68,2.70,0,1.79,mat.kbody); b(0,0.02,2.32,2.68,0,1.79,mat.oak); }}, // bottom, top, oak back over the window lintel
     {id:'kidsofa',type:'диванчик в нише под кроватью',room:1,layer:'kid',pos:[4.65,2.05],rot:0,size:[0.75,0.80,1.60],
      build(b){
        b(0,0.75,0.10,0.45,0,1.60,mat.fabric); b(0.60,0.75,0.45,0.80,0,1.60,mat.fabric);            // seat and back to the east wall
@@ -148,17 +157,14 @@ const PHYS={}; // id → boxes
      build(b){ b(0,1.6,0,0.01,0,1.7,mat.rug); }},
     {id:'projector',type:'проектор короткофокусный на потолке (throw ≈0.57, экран M13)',room:1,layer:'kid',pos:[2.15,3.235],rot:0,size:[0.30,2.70,0.25],fixed:'wall',
      build(b,g){ b(0,0.30,2.44,2.56,0,0.25,mat.kbody); b(0.02,0.06,2.47,2.53,-0.005,0,mat.knob); const c=new THREE.Mesh(new THREE.CylinderGeometry(0.02,0.02,0.14,8),mat.knob); c.position.set(0.15,2.63,0.125); g.add(c); }}, // body, lens to the west, bracket
-    {id:'screen',type:'кассета моторизованного экрана 2.20×1.24 (свёрнут)',room:1,layer:'kid',pos:[0.99,2.20],rot:0,size:[0.12,2.65,2.30],fixed:'wall',
-     build(b){ b(0,0.12,2.53,2.65,0,2.30,mat.kbody); b(0.03,0.09,2.52,2.53,0.05,2.25,mat.knob); }},   // ponytail: canvas not modelled, add a toggle when the cinema view is needed
-    {id:'curtain',type:'карниз с тюлем (блэкаут в проёме окна)',room:1,layer:'kid',pos:[0.911,2.474],rot:0,size:[0.05,2.68,2.39],fixed:'wall',
-     build(b){ b(0.01,0.04,2.65,2.68,0,2.39,mat.kbody); b(0.015,0.025,0.75,2.64,0.10,2.29,mat.tulle); }},
+    {id:'screen',type:'кассета моторизованного экрана 1.70×0.96 под полкой (свёрнут)',room:1,layer:'kid',pos:[0.99,2.474],rot:0,size:[0.12,2.30,1.79],fixed:'wall',
+     build(b){ b(0,0.12,2.18,2.30,0,1.79,mat.kbody); b(0.03,0.09,2.17,2.18,0.05,1.74,mat.knob); }},   // ponytail: canvas not modelled, add a toggle when the cinema view is needed
+    {id:'curtain',type:'карниз с тюлем (блэкаут в проёме окна)',room:1,layer:'kid',pos:[0.911,2.474],rot:0,size:[0.05,2.30,1.79],fixed:'wall',
+     build(b){ b(0.01,0.04,2.27,2.30,0,1.79,mat.kbody); b(0.015,0.025,0.75,2.26,0.05,1.74,mat.tulle); }},
     {id:'kidlight',type:'потолочный светильник Ø0.50, 3000 K, диммер',room:1,layer:'kid',pos:[2.45,3.25],rot:0,size:[0.50,2.70,0.50],fixed:'wall',
      build(b,g){ const c=new THREE.Mesh(new THREE.CylinderGeometry(0.25,0.25,0.04,32),mat.lamp); c.position.set(0.25,2.68,0.25); g.add(c); }},
     {id:'track',type:'трек с 2 спотами на галерейную стену',room:1,layer:'kid',pos:[1.90,4.22],rot:0,size:[2.20,2.70,0.06],fixed:'wall',
      build(b){ b(0,2.2,2.67,2.70,0.015,0.045,mat.knob); [0.6,1.6].forEach(x=>b(x,x+0.06,2.55,2.67,0,0.06,mat.knob)); }},
-    {id:'desklamp',type:'настольная лампа на струбцине, 3000–4000 K',room:1,layer:'kid',pos:[1.30,4.35],rot:0,size:[0.20,1.20,0.20],
-     build(b,g){ b(0.07,0.13,0.72,0.77,0.07,0.13,mat.knob); const a=new THREE.Mesh(new THREE.CylinderGeometry(0.012,0.012,0.36,8),mat.knob); a.position.set(0.10,0.95,0.10); g.add(a);
-       const s=new THREE.Mesh(new THREE.ConeGeometry(0.08,0.10,16,1,true),mat.lamp); s.position.set(0.10,1.15,0.10); g.add(s); }},
     {id:'bra1',type:'бра над диванчиком, поворотное',room:1,layer:'kid',pos:[5.20,2.79],rot:0,size:[0.245,1.35,0.16],fixed:'wall',
      build(b,g){ b(0.195,0.215,1.20,1.30,0.03,0.13,mat.knob); b(0.10,0.195,1.245,1.255,0.075,0.085,mat.knob); const s=new THREE.Mesh(new THREE.CylinderGeometry(0.06,0.06,0.12,16),mat.lamp); s.position.set(0.08,1.25,0.08); g.add(s); }},
     {id:'bra2',type:'бра для чтения над изголовьем, плоское',room:1,layer:'kid',pos:[5.28,2.37],rot:0,size:[0.165,2.36,0.20],fixed:'wall',

diff --git a/tools/check.js b/tools/check.js
@@ -357,7 +357,7 @@ const { chromium } = require('playwright');
     const sofaTop = bb(ITEM_GROUPS.kidsofa).max.y;
     return { n: kids.length, inside, hitPlat, warn, tops, sofaTop, bedPos: ITEM_GROUPS.kidbed.userData.pos };
   });
-  if (kid.n < 22) problems.push('комната 1: предметов слоя kid ' + kid.n + ' (< 22)');
+  if (kid.n < 23) problems.push('комната 1: предметов слоя kid ' + kid.n + ' (< 23)');
   if (kid.inside.length) problems.push('комната 1: предметы вне помещения: ' + kid.inside.join(', '));
   if (kid.hitPlat.length) problems.push('комната 1: пересекают платформу кровати: ' + kid.hitPlat.join(', '));
   if (kid.sofaTop > 1.7) problems.push('комната 1: диванчик выше низа платформы: ' + kid.sofaTop);

diff --git a/tasks/room1-kid/README.md b/tasks/room1-kid/README.md
@@ -365,6 +365,9 @@ issue: —
 - Стеллаж M3 заменён узким 0.60 × 0.40 × 2.50 в северо-западном углу, спиной к западной стене, фасадом к двери (`rot 270`).
   Перекрывает 0.36 м окна (окно с z 2.11). Тюль M14 начинается от стеллажа.
 - Розетка M24 переехала с северной стены на южную над крылом стола (x 2.06); M27 — x 2.56. Затем убраны и акцентная панель M30, и pegboard M9 (`.local/del1.png`); трек M16 оставлен. Крыло стола у окна сужено до 0.45 (`.local/eva_window_1.png`), кресло `[1.30, 3.60]`, лампа на южном крыле.
+- Далее (`.local/eva_window_2.png`): окно 1.80 м (z 2.47–4.27, между стеллажами; в комнате 3 — 2.20 на стене 3.37), лампа M17 убрана,
+  второй узкий стеллаж с открытыми полками в юго-западном углу от стола до потолка (`kidshelf2`), полка над окном между стеллажами
+  (`kidshelf3`, y 2.30–2.70); кассета экрана под ней (y 2.18–2.30, полотно 1.70×0.96), карниз тюля на 2.30.
 
 ## Что не делалось (дизайнером)
 
